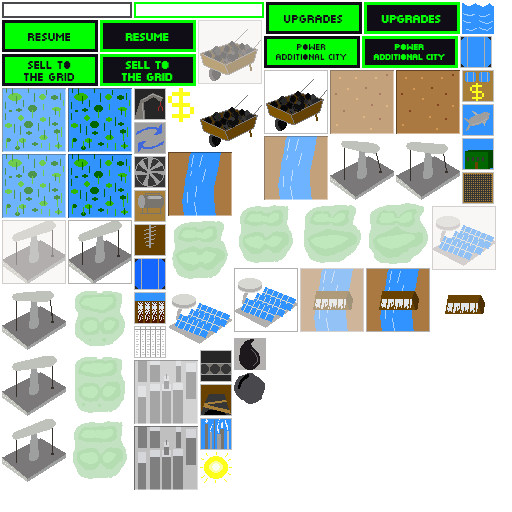
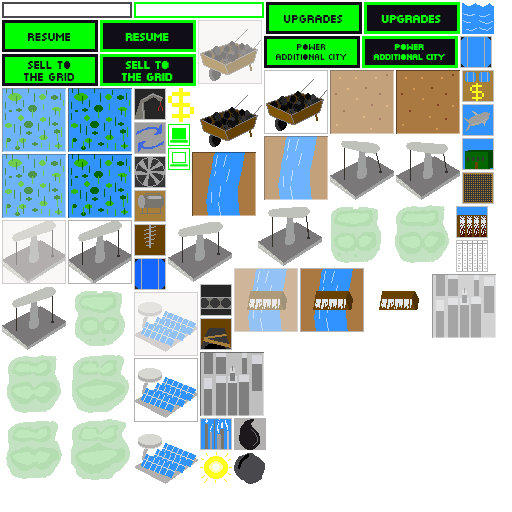
Menu button added

Changed region(s): [[0.1875, 0.25, 0.9688, 0.9688], [0.0, 0.6875, 0.1562, 0.9375], [0.0, 0.5625, 0.125, 0.5938]]

diff --git a/src/state/play_state.rs b/src/state/play_state.rs
@@ -212,6 +212,17 @@ impl<'a> State for PlayState<'a> {
             None,
         );
 
+        let entity = world
+            .create_entity()
+            .with(Transform::visible(
+                dimensions[0] - 640.0 - 52.0, 4.0, 0.0, 22, 22, 0.0, 1.0, 1.0
+            ))
+            .with(Sprite{ frame_name: "menu.png".to_string() })
+            .with(Button::new("menu".to_string(), ["menu.png".to_string(), "menu_hover.png".to_string()]))
+            .build();
+
+        side_bar_container.add(Node::new(Some(entity), None));
+
         let mut powerbar_frame_entities = Vec::new();
 
         for (i, coords) in CITY_POWER_STATE_COORDS.iter().enumerate() {
@@ -234,6 +245,7 @@ impl<'a> State for PlayState<'a> {
 
         world.add_resource(CityPowerState::new(powerbar_frame_entities));
 
+        // create first ppower bar
         {
             let entities = world.entities();
             let mut color_storage = world.write_storage::<Color>();
